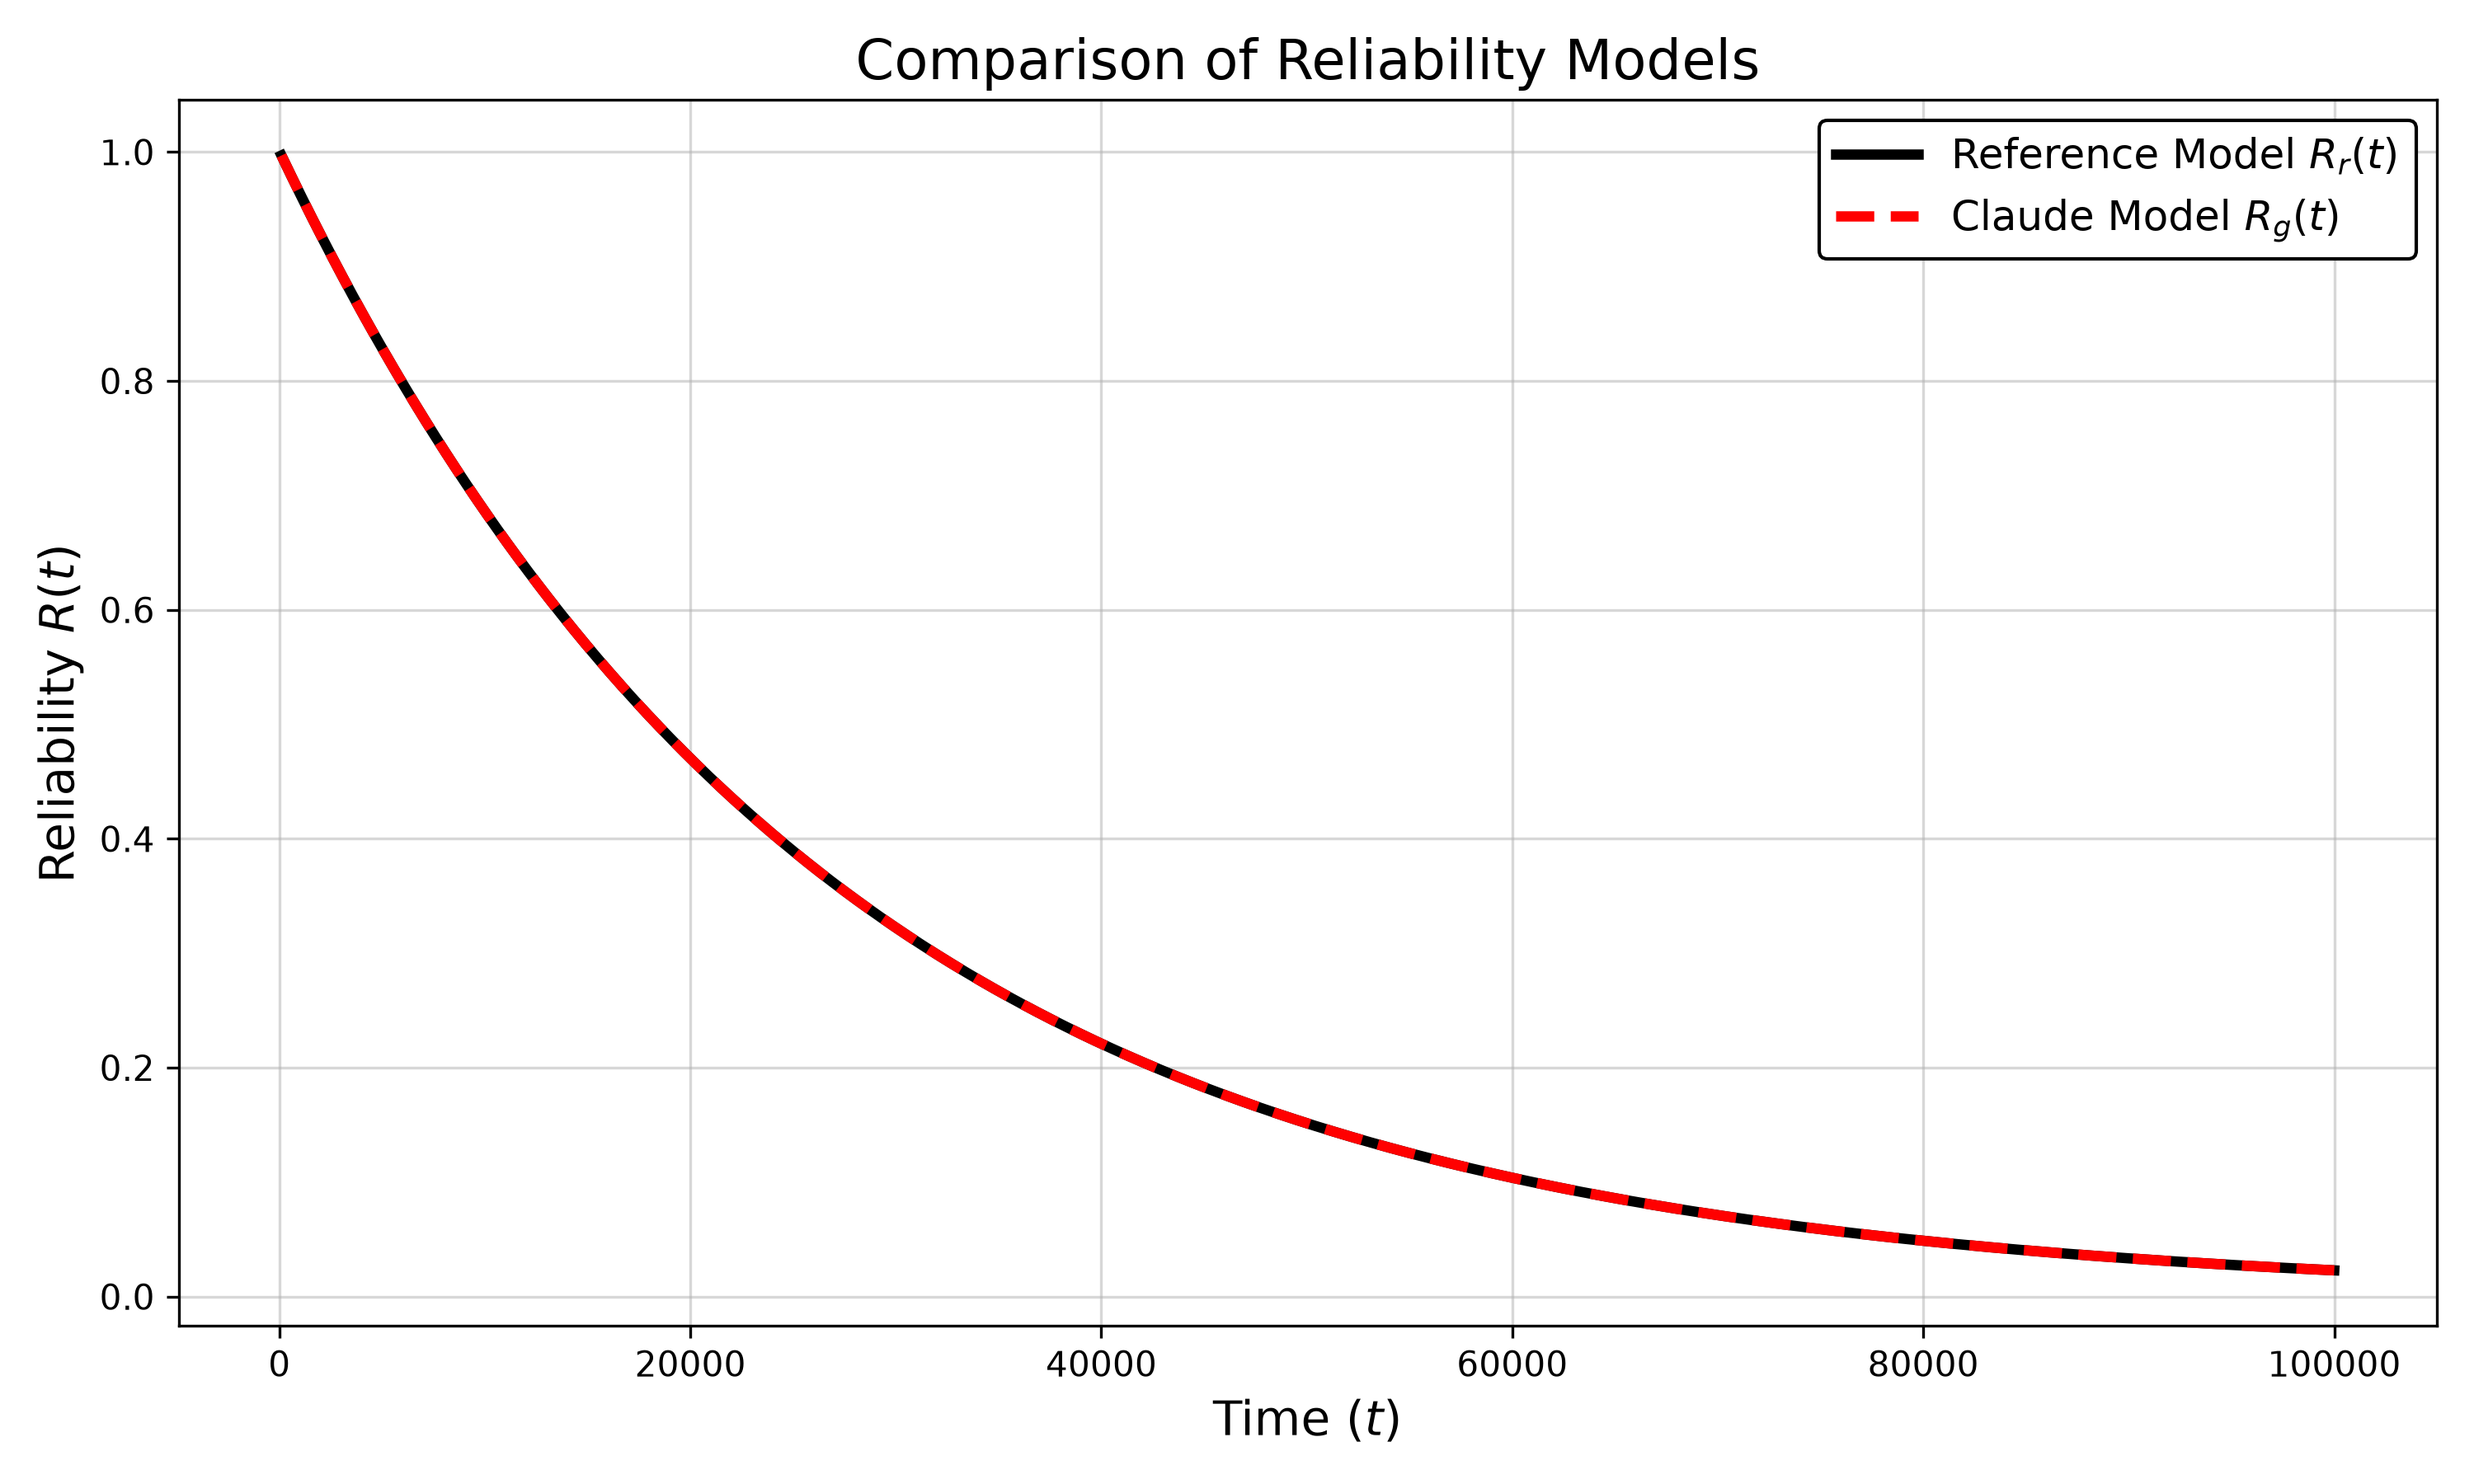
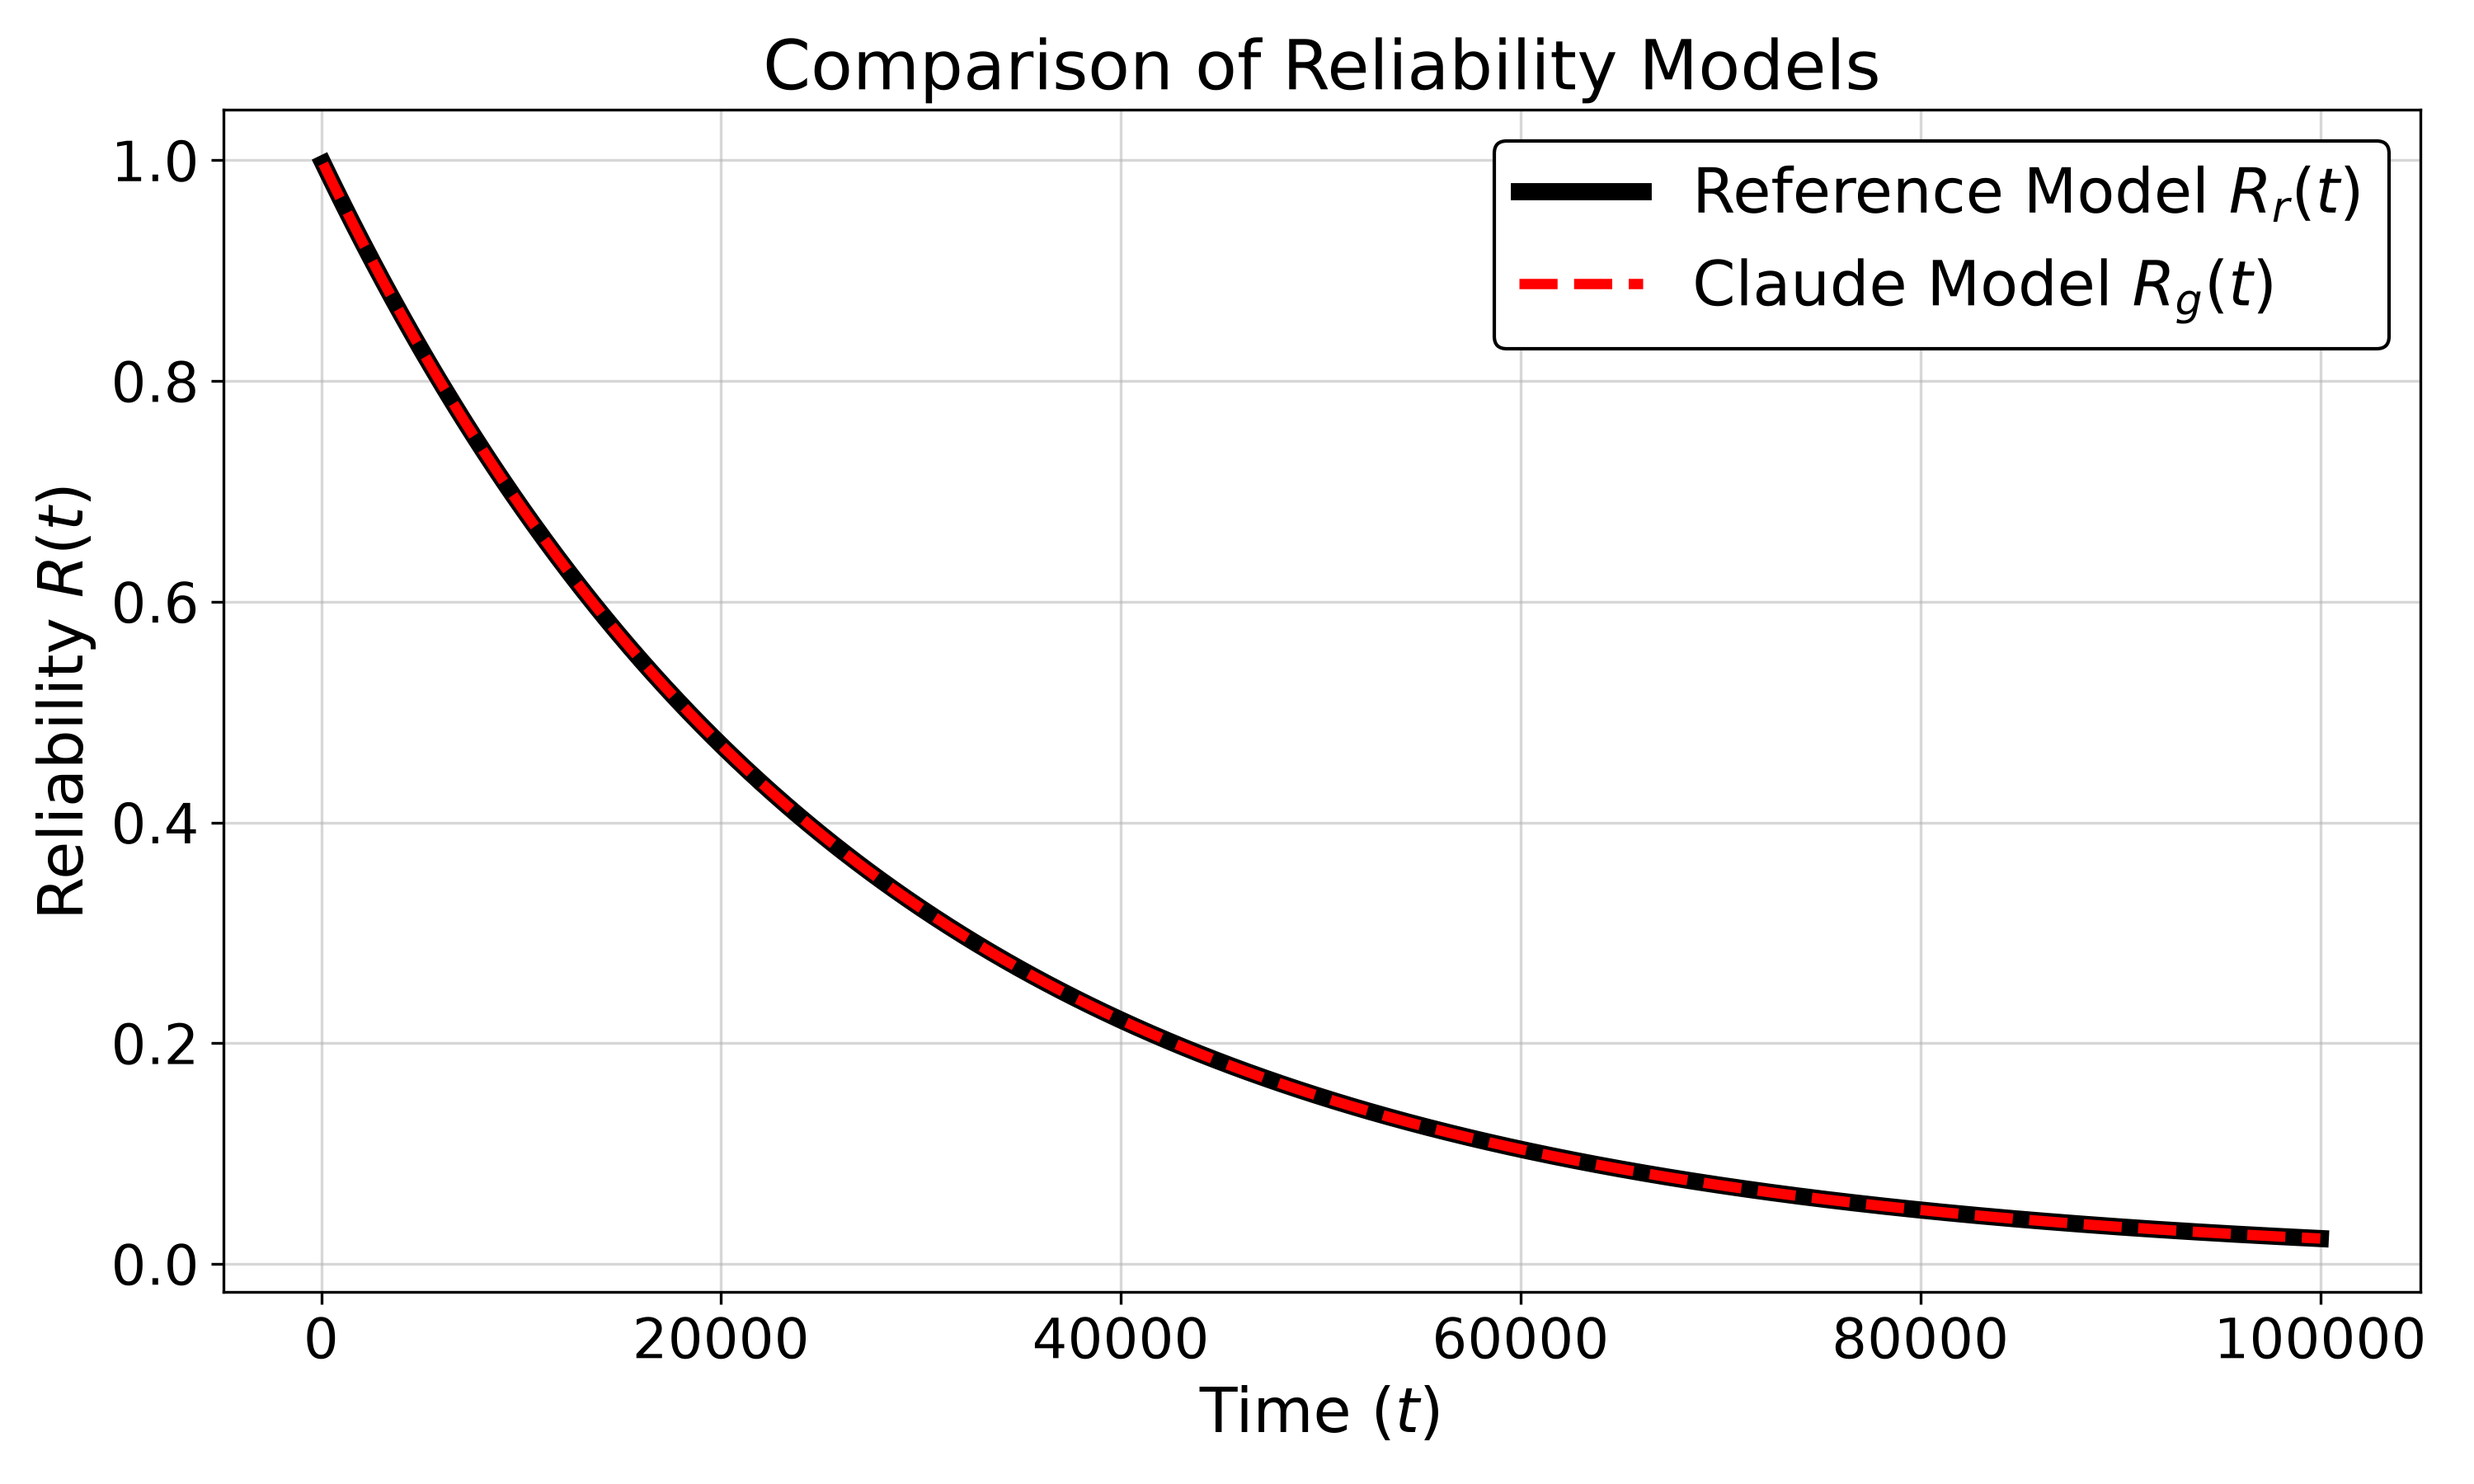
Adjust in the plots, redefine font size from titles and tick_Params for both

diff --git a/graphics/plot_claude.py b/graphics/plot_claude.py
@@ -17,7 +17,7 @@ plt.figure(figsize=(10, 6))
 # Plot the Reference Model (Black, solid, thick)
 plt.plot(df['Time'], df['Reference'],
          label='Reference Model $R_r(t)$',
-         color='black', linestyle='-', linewidth=3)
+         color='black', linestyle='-', linewidth=5)
 
 # Plot the Generated Model (Red, dashed, overlaid)
 plt.plot(df['Time'], df['Generated'],
@@ -25,12 +25,16 @@ plt.plot(df['Time'], df['Generated'],
          color='red', linestyle='--', linewidth=3)
 
 # 3. Academic Formatting (Titles, legends, and axes)
-plt.xlabel('Time ($t$)', fontsize=14)
-plt.ylabel('Reliability $R(t)$', fontsize=14)
-plt.title('Comparison of Reliability Models', fontsize=16)
+plt.xlabel('Time ($t$)', fontsize=18)
+plt.ylabel('Reliability $R(t)$', fontsize=18)
+plt.title('Comparison of Reliability Models', fontsize=20)
+
+# Axis tick marks/numbers fontsize
+plt.tick_params(axis='both', which='major', labelsize=16)
+
 
 # Configure the legend for the top right corner
-plt.legend(fontsize=12, loc='upper right', framealpha=1.0, edgecolor='black')
+plt.legend(fontsize=18, loc='upper right', framealpha=1.0, edgecolor='black')
 
 # Add a grid to facilitate visual reading
 plt.grid(True, linestyle='-', alpha=0.5)

diff --git a/graphics/plot_copilot.py b/graphics/plot_copilot.py
@@ -17,7 +17,7 @@ plt.figure(figsize=(10, 6))
 # Plot the Reference Model (Black, solid, thick)
 plt.plot(df['Time'], df['Reference'],
          label='Reference Model $R_r(t)$',
-         color='black', linestyle='-', linewidth=3)
+         color='black', linestyle='-', linewidth=5)
 
 # Plot the Generated Model (Red, dashed, overlaid)
 plt.plot(df['Time'], df['Generated'],
@@ -25,12 +25,16 @@ plt.plot(df['Time'], df['Generated'],
          color='red', linestyle='--', linewidth=3)
 
 # 3. Academic Formatting (Titles, legends, and axes)
-plt.xlabel('Time ($t$)', fontsize=14)
-plt.ylabel('Reliability $R(t)$', fontsize=14)
-plt.title('Comparison of Reliability Models', fontsize=16)
+plt.xlabel('Time ($t$)', fontsize=18)
+plt.ylabel('Reliability $R(t)$', fontsize=18)
+plt.title('Comparison of Reliability Models', fontsize=20)
+
+# Axis tick marks/numbers fontsize
+plt.tick_params(axis='both', which='major', labelsize=16)
+
 
 # Configure the legend for the top right corner
-plt.legend(fontsize=12, loc='upper right', framealpha=1.0, edgecolor='black')
+plt.legend(fontsize=18, loc='upper right', framealpha=1.0, edgecolor='black')
 
 # Add a grid to facilitate visual reading
 plt.grid(True, linestyle='-', alpha=0.5)

diff --git a/graphics/plot_deep_seek.py b/graphics/plot_deep_seek.py
@@ -17,20 +17,25 @@ plt.figure(figsize=(10, 6))
 # Plot the Reference Model (Black, solid, thick)
 plt.plot(df['Time'], df['Reference'],
          label='Reference Model $R_r(t)$',
-         color='black', linestyle='-', linewidth=3)
+         color='black', linestyle='-', linewidth=5)
 
 # Plot the Generated Model (Red, dashed, overlaid)
 plt.plot(df['Time'], df['Generated'],
          label='DeepSeek Model $R_g(t)$',
          color='red', linestyle='--', linewidth=3)
 
+
 # 3. Academic Formatting (Titles, legends, and axes)
-plt.xlabel('Time ($t$)', fontsize=14)
-plt.ylabel('Reliability $R(t)$', fontsize=14)
-plt.title('Comparison of Reliability Models', fontsize=16)
+plt.xlabel('Time ($t$)', fontsize=18)
+plt.ylabel('Reliability $R(t)$', fontsize=18)
+plt.title('Comparison of Reliability Models', fontsize=20)
+
+# Axis tick marks/numbers fontsize
+plt.tick_params(axis='both', which='major', labelsize=16)
+
 
 # Configure the legend for the top right corner
-plt.legend(fontsize=12, loc='upper right', framealpha=1.0, edgecolor='black')
+plt.legend(fontsize=18, loc='upper right', framealpha=1.0, edgecolor='black')
 
 # Add a grid to facilitate visual reading
 plt.grid(True, linestyle='-', alpha=0.5)
